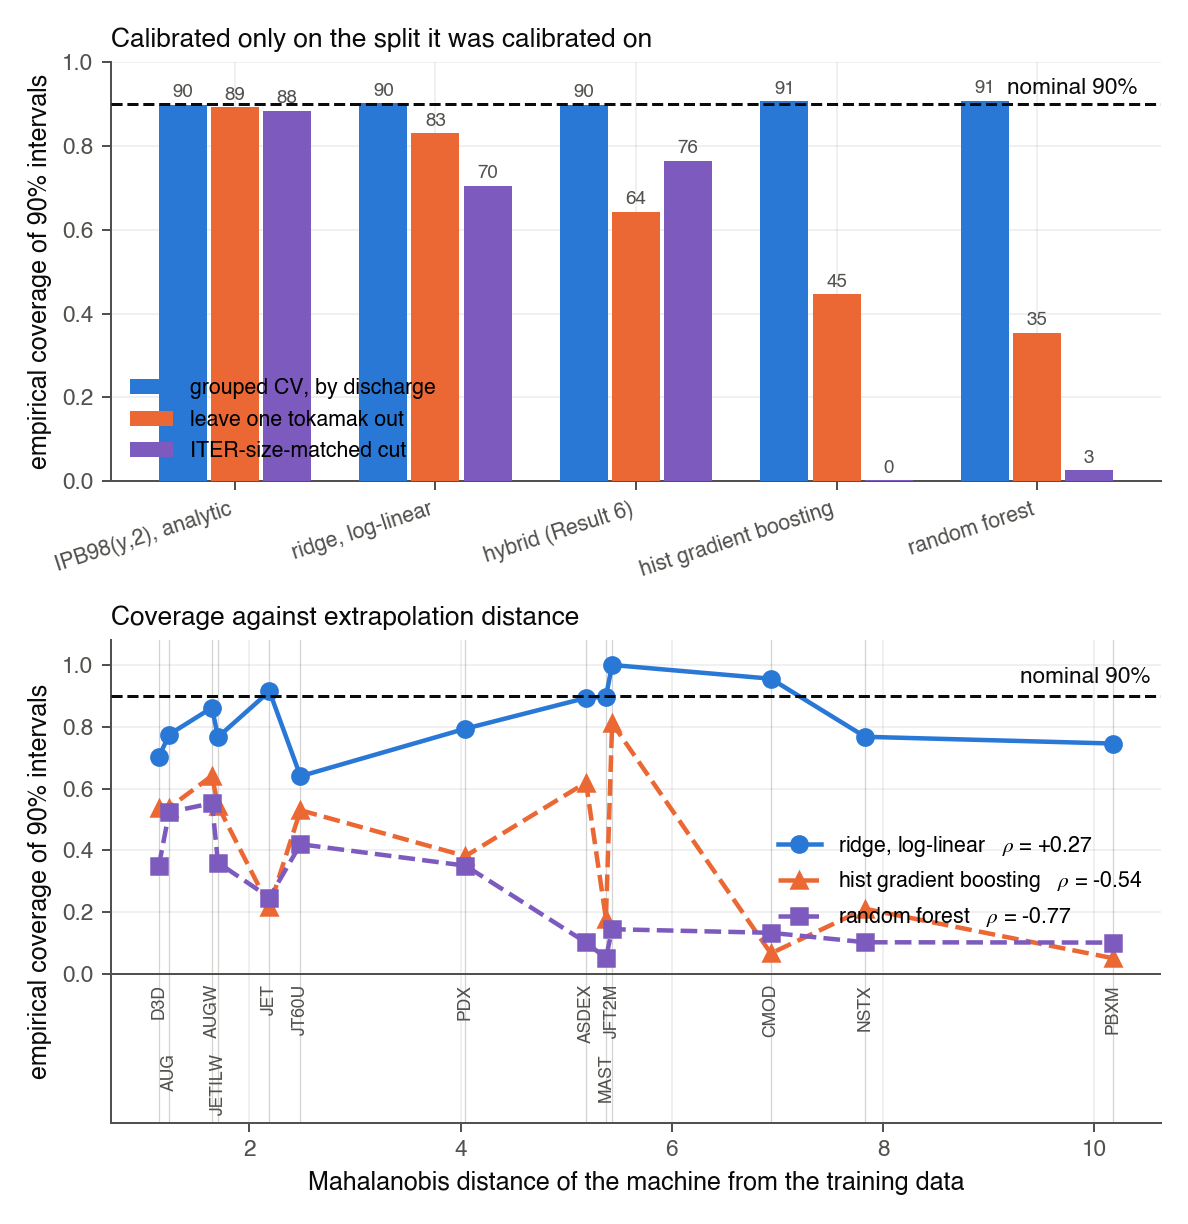
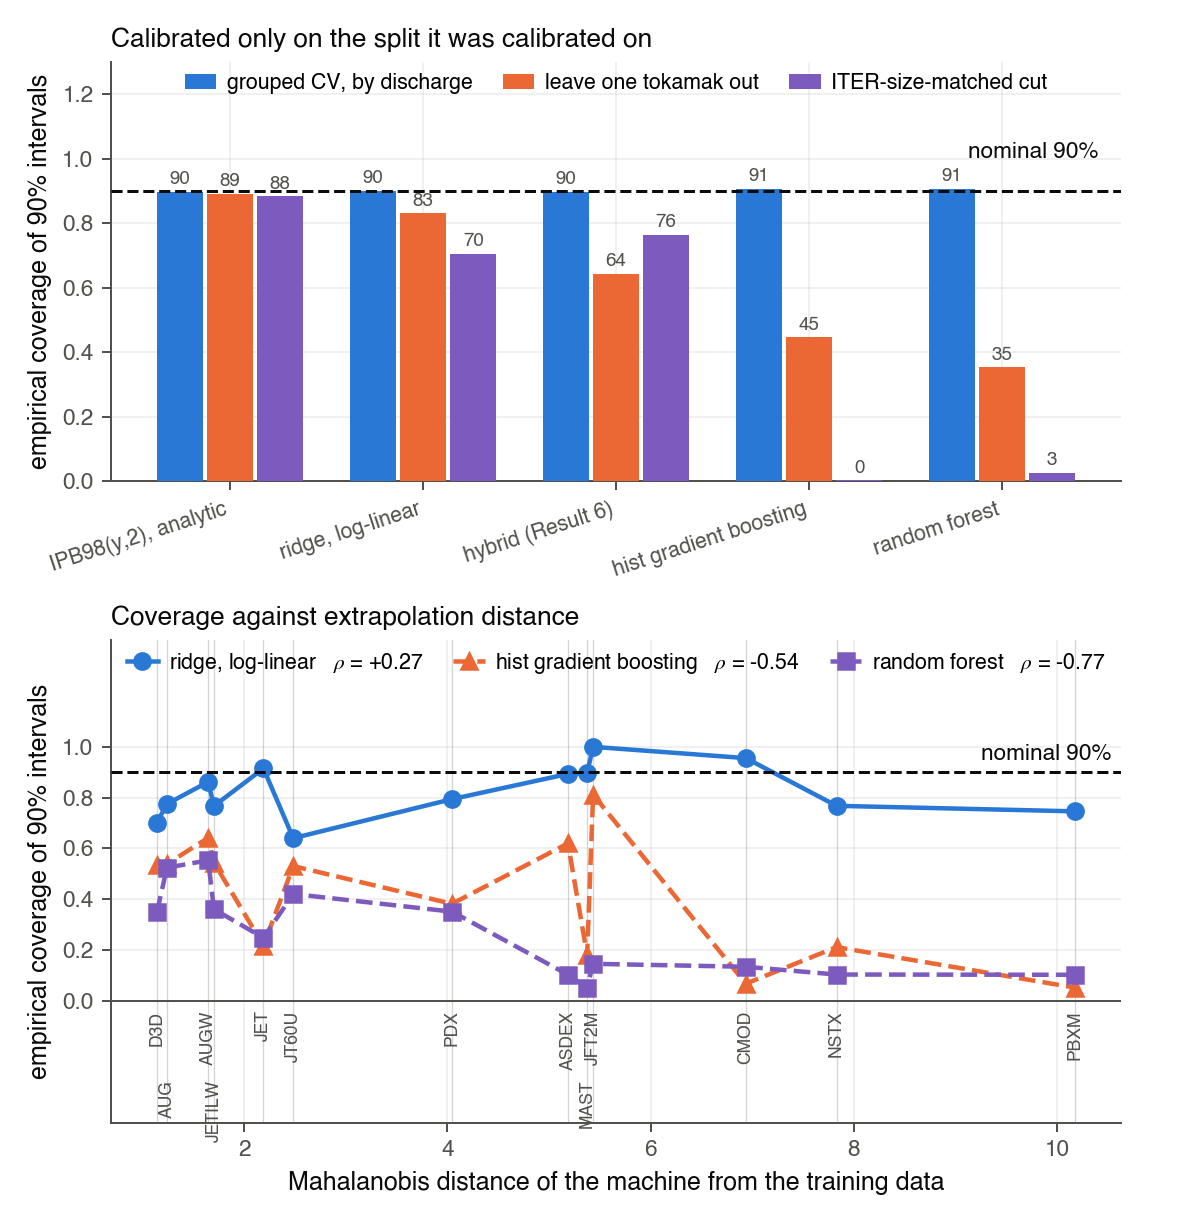
Stop both legends in the conformal figure printing over the data
Both panels placed their legend inside the axes, in a region the data happened
to leave empty when the placement was chosen. The comments recorded the
reasoning ("Centre right is the one region all three curves leave empty"), and
it stopped being true as coverages moved: the bottom legend printed across the
ridge and booster curves near CMOD, NSTX and PBXM, and the top legend across the
leave-one-tokamak-out and ITER-cut bars.

Both now sit above 1.0. Coverage is a proportion, so that band is empty by
construction whatever the numbers do, which is the property the previous
placement lacked. Each legend is laid out in three columns to fit the width.

The "nominal 90%" annotation moves with them. At 4 points above the line it was
printing beside the rightmost bar's own "91" label, since a model covering near
90% puts its value label at the same height as the line.

No number changes; this is placement only.

diff --git a/analysis_conformal.py b/analysis_conformal.py
@@ -357,10 +357,13 @@ def plot_conformal(analysis: ConformalAnalysis) -> Path | None:
                 color=MUTED,
             )
     axes[0].axhline(nominal, color=INK, linewidth=1.2, linestyle="--", zorder=4)
+    # Lifted clear of the bar value labels, which sit a few points above each
+    # bar and reach the nominal line wherever a model covers near 90%: at 4
+    # points this label and the rightmost "91" were printing side by side.
     axes[0].annotate(
         f"nominal {nominal * 100:.0f}%",
         xy=(len(models) - 0.5, nominal),
-        xytext=(0, 4),
+        xytext=(0, 13),
         textcoords="offset points",
         ha="right",
         fontsize=9,
@@ -373,7 +376,12 @@ def plot_conformal(analysis: ConformalAnalysis) -> Path | None:
         ha="right",
         fontsize=8.5,
     )
-    axes[0].set_ylim(0, 1.0)
+    # Headroom above the tallest bar and its value label, so the legend has a
+    # band of its own. Placing it inside the data area needs a region the bars
+    # happen to leave empty, and which region that is changes every time a
+    # coverage does; the band above 1.0 is empty by construction, since these
+    # are proportions.
+    axes[0].set_ylim(0, 1.30)
     axes[0].set_ylabel(f"empirical coverage of {nominal * 100:.0f}% intervals", fontsize=10, color=INK)
     axes[0].set_title(
         "Calibrated only on the split it was calibrated on",
@@ -381,7 +389,16 @@ def plot_conformal(analysis: ConformalAnalysis) -> Path | None:
         color=INK,
         loc="left",
     )
-    axes[0].legend(frameon=False, fontsize=8.5, loc="lower left")
+    axes[0].legend(
+        frameon=False,
+        fontsize=8.5,
+        loc="upper center",
+        ncol=3,
+        columnspacing=1.4,
+        handlelength=1.5,
+        handletextpad=0.5,
+        borderaxespad=0.1,
+    )
 
     # --- Bottom: coverage against extrapolation distance -------------------
     #
@@ -514,7 +531,7 @@ def plot_conformal(analysis: ConformalAnalysis) -> Path | None:
     # A gutter below zero holds the machine names. Three of the machines sit
     # within 0.25 distance units of each other, so labels placed among the marks
     # collide with them and with each other whatever the rotation.
-    axes[1].set_ylim(-max(gutter_depth, 0.34), 1.08)
+    axes[1].set_ylim(-max(gutter_depth, 0.34), 1.42)
     axes[1].set_yticks(np.arange(0.0, 1.01, 0.2))
     axes[1].axhline(0.0, color=MUTED, linewidth=0.8, zorder=2)
     axes[1].set_xlabel(
@@ -529,8 +546,20 @@ def plot_conformal(analysis: ConformalAnalysis) -> Path | None:
         color=INK,
         loc="left",
     )
-    # Centre right is the one region all three curves leave empty.
-    axes[1].legend(frameon=False, fontsize=8.5, loc="center right")
+    # Above the curves rather than among them. Coverage is a proportion, so
+    # nothing can be drawn above 1.0 and the band there is empty whatever the
+    # curves do; a legend placed in a gap between them survives only until a
+    # coverage moves into it, which is what happened to the previous placement.
+    axes[1].legend(
+        frameon=False,
+        fontsize=8.5,
+        loc="upper center",
+        ncol=3,
+        columnspacing=1.4,
+        handlelength=1.5,
+        handletextpad=0.5,
+        borderaxespad=0.1,
+    )
 
     figure.tight_layout()
     path = RESULTS_DIR / "conformal.png"
